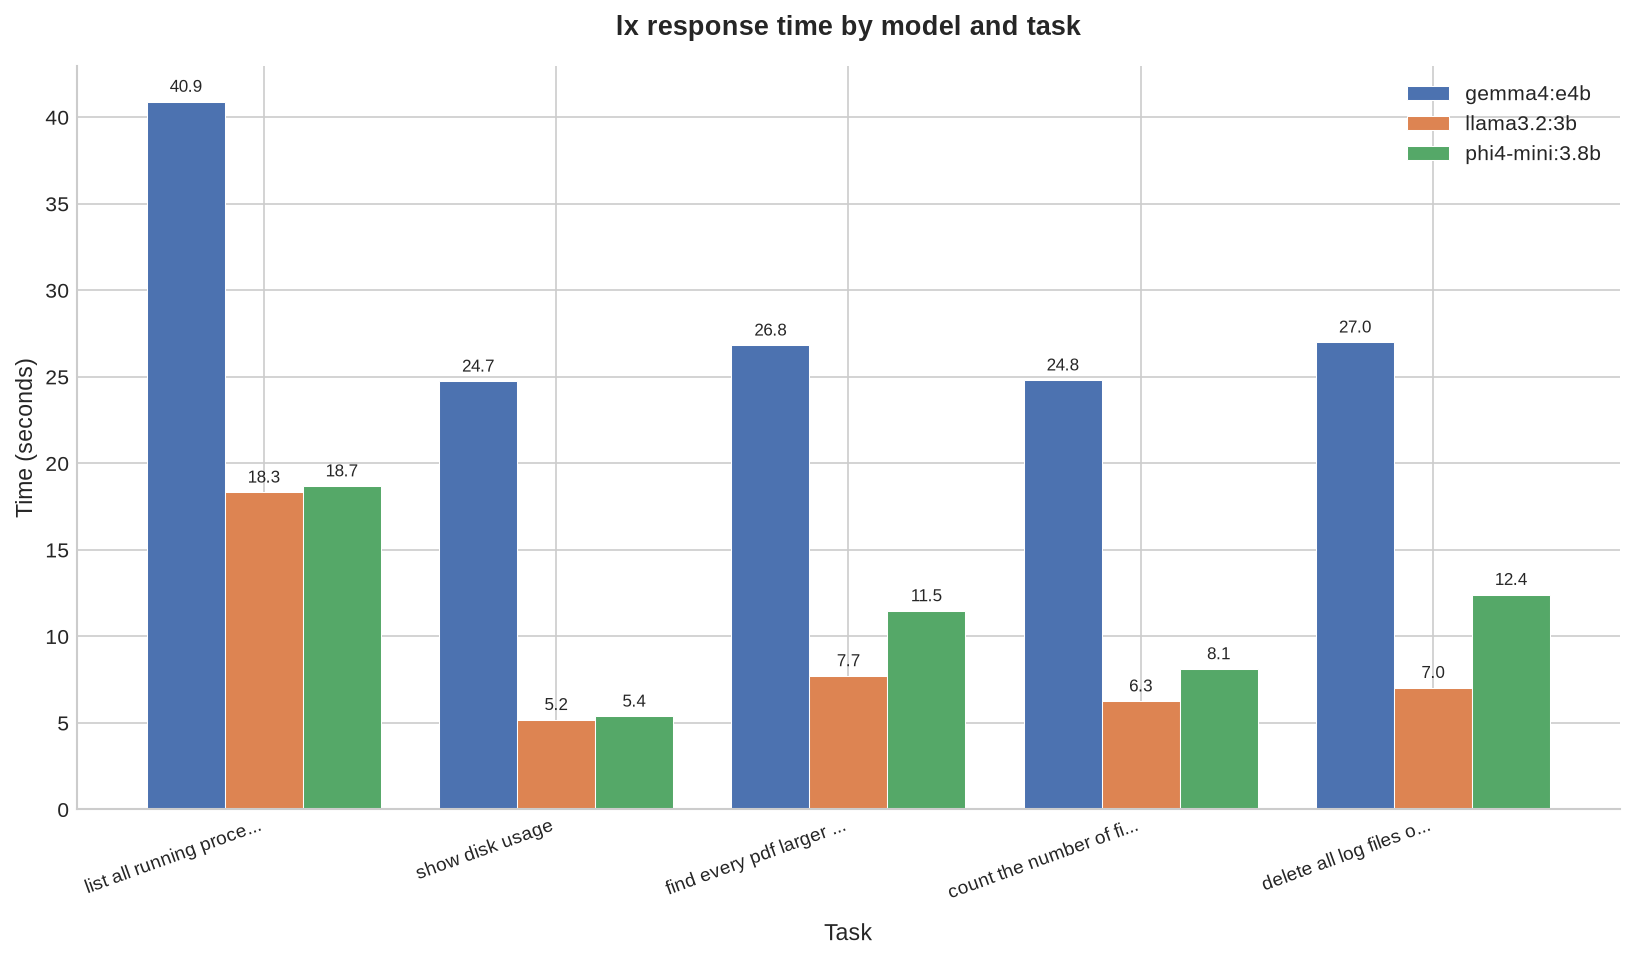
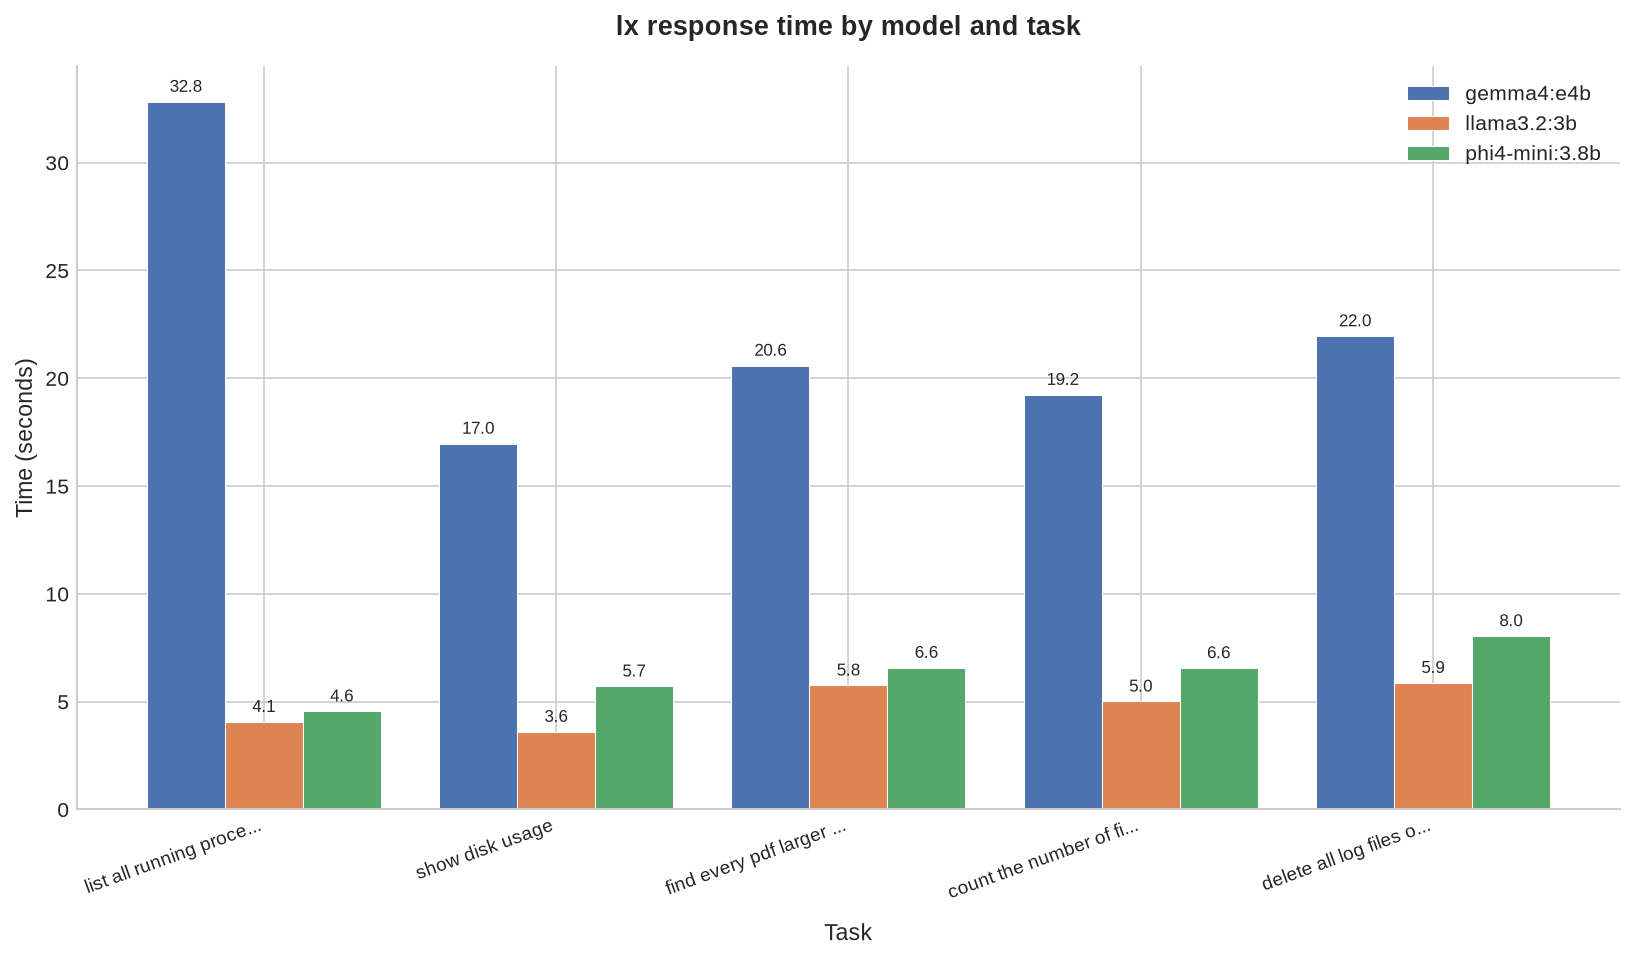
feat: add few-shot prompting and bash syntax-check safety net, update docs and benchmarks

diff --git a/src/lx/parser.py b/src/lx/parser.py
@@ -1,5 +1,6 @@
 import json
 import re
+import subprocess
 
 
 class ResponseParseError(Exception):
@@ -38,3 +39,16 @@ def parse_llm_response(raw_response: str) -> dict:
         )
 
     return data
+
+
+def command_has_valid_syntax(command: str) -> bool:
+    """Check whether a command is at least syntactically valid bash, without running it."""
+    try:
+        result = subprocess.run(
+            ["bash", "-n", "-c", command],
+            capture_output=True,
+            timeout=5,
+        )
+        return result.returncode == 0
+    except (subprocess.SubprocessError, OSError):
+        return True  # if we can't check, don't block the user over our own tooling failure

diff --git a/scripts/benchmark.py b/scripts/benchmark.py
@@ -7,7 +7,7 @@ import matplotlib.pyplot as plt
 import requests
 
 from lx.ollama_client import list_available_models, get_structured_response, OllamaError
-from lx.parser import ResponseParseError
+from lx.parser import ResponseParseError, command_has_valid_syntax
 
 TASKS = [
     "list all running processes",
@@ -40,6 +40,7 @@ def benchmark_model(model: str) -> list[dict]:
         try:
             result = get_structured_response(task, model)
             elapsed = time.perf_counter() - start
+            syntax_ok = command_has_valid_syntax(result["command"])
             results.append(
                 {
                     "model": model,
@@ -48,6 +49,7 @@ def benchmark_model(model: str) -> list[dict]:
                     "success": True,
                     "command": result["command"],
                     "risk": result["risk"],
+                    "syntax_ok": syntax_ok,
                 }
             )
         except (OllamaError, ResponseParseError) as exc:
@@ -60,6 +62,7 @@ def benchmark_model(model: str) -> list[dict]:
                     "success": False,
                     "command": None,
                     "risk": None,
+                    "syntax_ok": None,
                     "error": str(exc),
                 }
             )
@@ -72,7 +75,11 @@ def print_report(all_results: list[dict]) -> None:
     print("-" * 95)
     for row in all_results:
         time_str = f"{row['elapsed']:.2f}"
-        outcome = f"OK ({row['risk']})" if row["success"] else "FAILED"
+        if row["success"]:
+            syntax_flag = "OK" if row["syntax_ok"] else "BAD SYNTAX"
+            outcome = f"{syntax_flag} ({row['risk']})"
+        else:
+            outcome = "FAILED"
         print(f"{row['model']:<20}{row['task']:<45}{time_str:<10}{outcome}")
         if row["success"]:
             print(f"    -> {row['command']}")

diff --git a/src/lx/display.py b/src/lx/display.py
@@ -2,6 +2,8 @@ from rich.console import Console
 from rich.markup import escape
 from rich.panel import Panel
 
+from lx.parser import command_has_valid_syntax
+
 console = Console()
 
 RISK_COLORS = {
@@ -29,5 +31,11 @@ def display_result(result: dict, target_console: Console = console) -> None:
         f"[bold]Explanation:[/bold] {explanation}\n\n"
         f"[bold]Risk:[/bold] [{risk_color}]{risk.upper()}[/{risk_color}]"
     )
+
+    if not command_has_valid_syntax(result["command"]):
+        body += (
+            "\n\n[bold red]⚠ Warning:[/bold red] this command failed a basic "
+            "syntax check and may not run correctly. Review it carefully before using."
+        )
 
     target_console.print(Panel(body, title="lx result", border_style=risk_color))

diff --git a/src/lx/ollama_client.py b/src/lx/ollama_client.py
@@ -19,8 +19,12 @@ The JSON object must have exactly these three keys:
 
 IMPORTANT: The "command" value must be valid JSON string content.
 - If the shell command contains a backslash (for example, to escape parentheses like \\( or \\)), write it as a double backslash so the JSON stays valid.
-- If the shell command needs to quote something (like a filename pattern or a variable), use single quotes (') instead of double quotes ("), wherever possible. Avoid double quotes inside the command value entirely if a single-quote equivalent exists, since unescaped double quotes will break the JSON.
+- If the shell command needs double quotes inside it (for example, for variable expansion like "$file"), escape each one as \\" so the JSON stays valid.
 - Prefer writing commands that avoid unnecessary backslashes or quoting when a simpler equivalent exists.
+
+Example:
+Task: rename every .txt file in this folder to have a .bak extension
+JSON response: {{"command": "for f in *.txt; do mv \\"$f\\" \\"${{f%.txt}}.bak\\"; done", "explanation": "Loops through every .txt file and renames it with a .bak extension instead.", "risk": "low"}}
 
 Task: {task}
 

diff --git a/README.md b/README.md
@@ -27,11 +27,12 @@ I don't want to memorise every Linux command flag, and I don't want an AI agent 
 
 - **100% local, no cloud APIs.** Everything runs through Ollama on your own machine, so nothing is sent anywhere, and there's no API cost.
 - **Never auto-executes.** `lx` only displays a command, an explanation, and a risk level. Copying it to your clipboard is the only optional action it takes, and only with explicit confirmation.
-- **Structured, reliable output.** The LLM is prompted to return strict JSON (`command`, `explanation`, `risk`). Since small local models don't always follow formatting instructions perfectly, `lx` includes a JSON-repair step (for common escaping mistakes) and automatic retry logic if parsing still fails.
+- **Structured, reliable output.** The LLM is prompted to return strict JSON (`command`, `explanation`, `risk`), with a worked example included in the prompt (few-shot prompting) to improve reliability on trickier tasks. Since small local models don't always follow formatting instructions perfectly, `lx` also includes a JSON-repair step (for common escaping mistakes), Ollama's `format: json` constrained decoding, and automatic retry logic if parsing still fails.
+- **A syntax-check safety net.** Before displaying a generated command, `lx` runs a dry-run bash parse (`bash -n`, nothing is executed) and shows a warning if the command fails basic syntax validation.
 - **Risk labelling.** Every generated command is labelled `low`, `medium`, or `high` risk, and colour-coded in the terminal (green/yellow/red), so dangerous commands are visually distinct before you ever consider running them.
 - **Streamed under the hood.** Responses are read from Ollama as a stream of chunks rather than one blocking call, with a live animated status indicator while the model works. The final result is still shown all at once (not word-by-word), since a partially-generated command or JSON fragment isn't meaningful or safe to display mid-stream.
 - **Model choice, your call.** On startup, `lx` lists every model you've pulled locally via Ollama and lets you pick one interactively. Set the `LX_MODEL` environment variable to skip the picker and always use a specific model.
-- **Tested and CI-checked.** Core logic (JSON parsing/repair, input validation) has unit tests, run automatically via GitHub Actions on every push.
+- **Tested and CI-checked.** Core logic (JSON parsing/repair, input validation, display rendering, clipboard behaviour) has unit tests, run automatically via GitHub Actions on every push.
 
 ## Requirements
 
@@ -79,7 +80,7 @@ LX_MODEL=gemma4:e4b lx
 
 ## Development
 
-Install with dev dependencies (adds `pytest`):
+Install with dev dependencies (adds `pytest` and `matplotlib`):
 
 ```bash
 pip install -e ".[dev]"
@@ -91,11 +92,11 @@ Run the test suite:
 pytest
 ```
 
-Tests cover JSON parsing/repair logic and CLI input validation, and run automatically on every push via GitHub Actions (see the badge above).
+Tests cover JSON parsing/repair logic, CLI input validation, display rendering (including a regression test for a real markup-escaping bug), and clipboard behaviour, and run automatically on every push via GitHub Actions (see the badge above).
 
 ### Benchmarking models
 
-`scripts/benchmark.py` times a fixed set of tasks against every locally pulled Ollama model, checks JSON-parsing reliability, and generates a comparison chart. Requires the `dev` extras (`pip install -e ".[dev]"`), which include `matplotlib`. See [BENCHMARKS.md](BENCHMARKS.md) for results and findings from testing on this project's development hardware.
+`scripts/benchmark.py` times a fixed set of tasks against every locally pulled Ollama model, checks JSON-parsing reliability and basic command syntax validity, and generates a comparison chart. See [BENCHMARKS.md](BENCHMARKS.md) for results and findings from testing on this project's development hardware, including a follow-up investigation into few-shot prompting and syntax checking as reliability improvements.
 
 ```bash
 python scripts/benchmark.py
@@ -103,10 +104,11 @@ python scripts/benchmark.py
 
 ## Known limitations
 
-- Small local models (3B to 8B class) don't always produce perfectly formed JSON. `lx` mitigates this with a repair step, retry logic, and Ollama's `format: json` constraint, but it isn't foolproof: occasional failures are still possible, especially for tasks requiring nested shell quoting (e.g. a command that itself needs both single and double quotes). See [BENCHMARKS.md](BENCHMARKS.md) for a documented example.
-- Valid JSON doesn't guarantee a correct or safe shell command; benchmarking surfaced real cases of syntactically broken commands, in one case labelled "low risk" (see [BENCHMARKS.md](BENCHMARKS.md)). Always read the command and explanation yourself before running anything.
+- Small local models (3B to 8B class) don't always produce perfectly formed JSON. `lx` mitigates this with a repair step, retry logic, few-shot prompting, and Ollama's `format: json` constraint, but it isn't foolproof: occasional failures are still possible, especially for tasks requiring nested shell quoting (e.g. a command that itself needs both single and double quotes). See [BENCHMARKS.md](BENCHMARKS.md) for documented examples.
+- Valid JSON doesn't guarantee a correct or safe shell command; benchmarking surfaced real cases of syntactically broken or semantically incorrect commands, in some cases labelled "low risk". Always read the command and explanation yourself before running anything.
 - Risk classification is entirely the LLM's judgement based on prompt guidance, and can vary between runs for similar commands. It's a helpful signal, not a guarantee.
-- `lx` is only available in terminals where it's been installed (via `pipx` or an activated venv), see Setup below.
+- `lx` is only available in terminals where it's been installed (via `pipx` or an activated venv), see Setup above.
+- Generated commands are checked for basic bash syntax validity (via `bash -n`) before being shown, and a warning is displayed if a command fails this check. This catches bash grammar errors (e.g. unbalanced quotes) but not command-specific argument errors (e.g. a missing required argument to `find -exec`), see [BENCHMARKS.md](BENCHMARKS.md) for a real example of each.
 
 ## Roadmap
 
@@ -117,7 +119,7 @@ python scripts/benchmark.py
 - [x] Interactive model selection, with an `LX_MODEL` override
 - [x] Benchmark alternative models for speed/accuracy tradeoffs on CPU-only hardware
 - [x] Installable system-wide via `pipx`, without needing manual venv activation
-- [ ] Investigate whether smaller models can be made more reliable for nested-quoting tasks (e.g. via few-shot examples in the prompt)
+- [x] Investigate whether smaller models can be made more reliable for nested-quoting tasks (few-shot prompting, plus a bash syntax-check safety net)
 
 ## Licence
 

diff --git a/BENCHMARKS.md b/BENCHMARKS.md
@@ -32,7 +32,7 @@ These numbers are from a single run each and vary somewhat between runs on this 
 
 **Command correctness, a more concerning finding than JSON validity alone:** even when JSON parsed successfully, the *shell command itself* wasn't always correct:
 
-- `llama3.2:3b` produced a truncated, syntactically invalid command for the "delete old log files" task in two separate runs: `find /var/log -type f -mtime +30 -exec rm {} \`, missing the `\;` or `+` terminator required by `-exec`. This looks like a consistent weakness for this model on this specific task pattern, not a one-off fluke, and it was labelled "low risk" both times.
+- `llama3.2:3b` produced a truncated, syntactically invalid command for the "delete old log files" task in multiple separate runs: `find /var/log -type f -mtime +30 -exec rm {} \`, missing the `\;` or `+` terminator required by `-exec`. This looks like a consistent weakness for this model on this specific task pattern, not a one-off fluke, and it was labelled "low" or "high" risk across different runs, never flagged as a problem itself.
 - `phi4-mini:3.8b` produced commands with unusual or invalid quoting on the PDF-search task across different runs, including wrapping the entire command in an extra layer of single quotes that shouldn't be there.
 
 **Risk labelling varies between runs:** the same "delete old log files" task was labelled `medium` in one run and `high` in another by `phi4-mini`, for a functionally similar command. Risk classification is the model's own judgement call, not a deterministic calculation, treat it as a helpful signal, not a guarantee.
@@ -52,9 +52,21 @@ With `format: json` enabled, `phi4-mini` did produce syntactically valid JSON, b
 
 **Takeaway:** for tasks requiring nested shell quoting, smaller local models may be unable to reliably produce valid structured output, even with strong prompt engineering and format constraints. Larger models may succeed both by escaping correctly and by naturally choosing simpler, less quote-heavy command structures. This is a genuine capability ceiling, not something `lx`'s repair/retry logic can fully paper over.
 
+## Follow-up experiment: few-shot prompting and a syntax-check safety net
+
+Two further changes were tested in response to the nested-quoting failures above.
+
+**Few-shot prompting:** one worked example (a task requiring the same nested-quoting pattern that previously failed) was added directly to the prompt. Across several manual re-tests of the original failing task and two further, differently-shaped nested-quoting tasks, `phi4-mini:3.8b` produced valid JSON with correctly escaped quotes in every case, a clear improvement over the pre-few-shot failure rate. However, JSON validity is not the same as command correctness: one of these "successful" responses contained a command with a `grep`/`awk` field-splitting mismatch that likely wouldn't produce the intended output, and another contained an unbalanced leading quote despite being valid JSON. **Few-shot prompting improved structural JSON reliability but did not, and likely cannot, guarantee the generated shell command is actually correct.**
+
+**Syntax-check safety net:** `lx` now runs `bash -n` (a dry-run parse, nothing is executed) against every generated command before displaying it, and shows a visible warning if the check fails. A full benchmark run after adding this check caught a real case: `phi4-mini:3.8b` produced `find /var/log -name '*.log' -type f -mtime +30 -exec rm {} ";`, an unbalanced quote, correctly flagged as invalid syntax.
+
+This check has a known, honest limitation: it only validates bash's own grammar, not command-specific argument requirements. `llama3.2:3b` has repeatedly produced `find ... -exec rm {} \` (missing the `\;` or `+` terminator `find` requires), which is technically valid *bash* syntax, a bare trailing backslash isn't itself a bash grammar error, so this check does not catch it, even though the command would fail if actually run. Catching this class of error would require program-specific validation (e.g. understanding `find`'s own argument grammar), which is out of scope for a general syntax check.
+
+**Conclusion:** the syntax check is a genuine, real safety improvement, it catches a meaningful class of broken commands with zero risk (nothing is executed) and no reliance on the LLM behaving well. It is not, and cannot be, a complete guarantee of command correctness. This is exactly why `lx` never auto-executes anything: even with JSON repair, retries, few-shot prompting, and syntax checking layered together, a human reviewing the actual command remains the real safeguard.
+
 ## A note on variability
 
-Response times for `gemma4:e4b` were noticeably higher in a later benchmark run (40.9s for the slowest task) than an earlier one (28.9s for the same task), despite no code changes affecting model inference. This is a reminder that CPU-only, shared-hardware benchmarking is inherently noisy: background processes, thermal throttling, and residual memory/swap pressure from prior test runs can all meaningfully affect results. Numbers here should be read as rough, directional comparisons between models on the same run, not as precise, universally reproducible benchmarks.
+Response times for `gemma4:e4b` varied noticeably across separate benchmark runs (from around 29s to 46s for the slowest task), despite no code changes affecting model inference. This is a reminder that CPU-only, shared-hardware benchmarking is inherently noisy: background processes, thermal throttling, and residual memory/swap pressure from prior test runs can all meaningfully affect results. Numbers here should be read as rough, directional comparisons between models on the same run, not as precise, universally reproducible benchmarks.
 
 ## Takeaways
 
@@ -62,6 +74,8 @@ Response times for `gemma4:e4b` were noticeably higher in a later benchmark run 
 - Valid JSON structure does not guarantee a correct or runnable shell command; this reinforces why `lx` never auto-executes anything, a human reviewing the command before running it is a real safeguard, not a formality.
 - Risk labels are a helpful signal from the model, not a verified guarantee.
 - Some tasks (particularly those requiring nested shell quoting) may exceed what smaller local models can reliably express as structured output, regardless of prompt engineering or format constraints.
+- Few-shot prompting can meaningfully improve JSON structural reliability, but does not guarantee command correctness.
+- A bash syntax check (`bash -n`) catches some, but not all, classes of broken commands; it validates shell grammar, not program-specific argument rules.
 
 ## Caveats
 